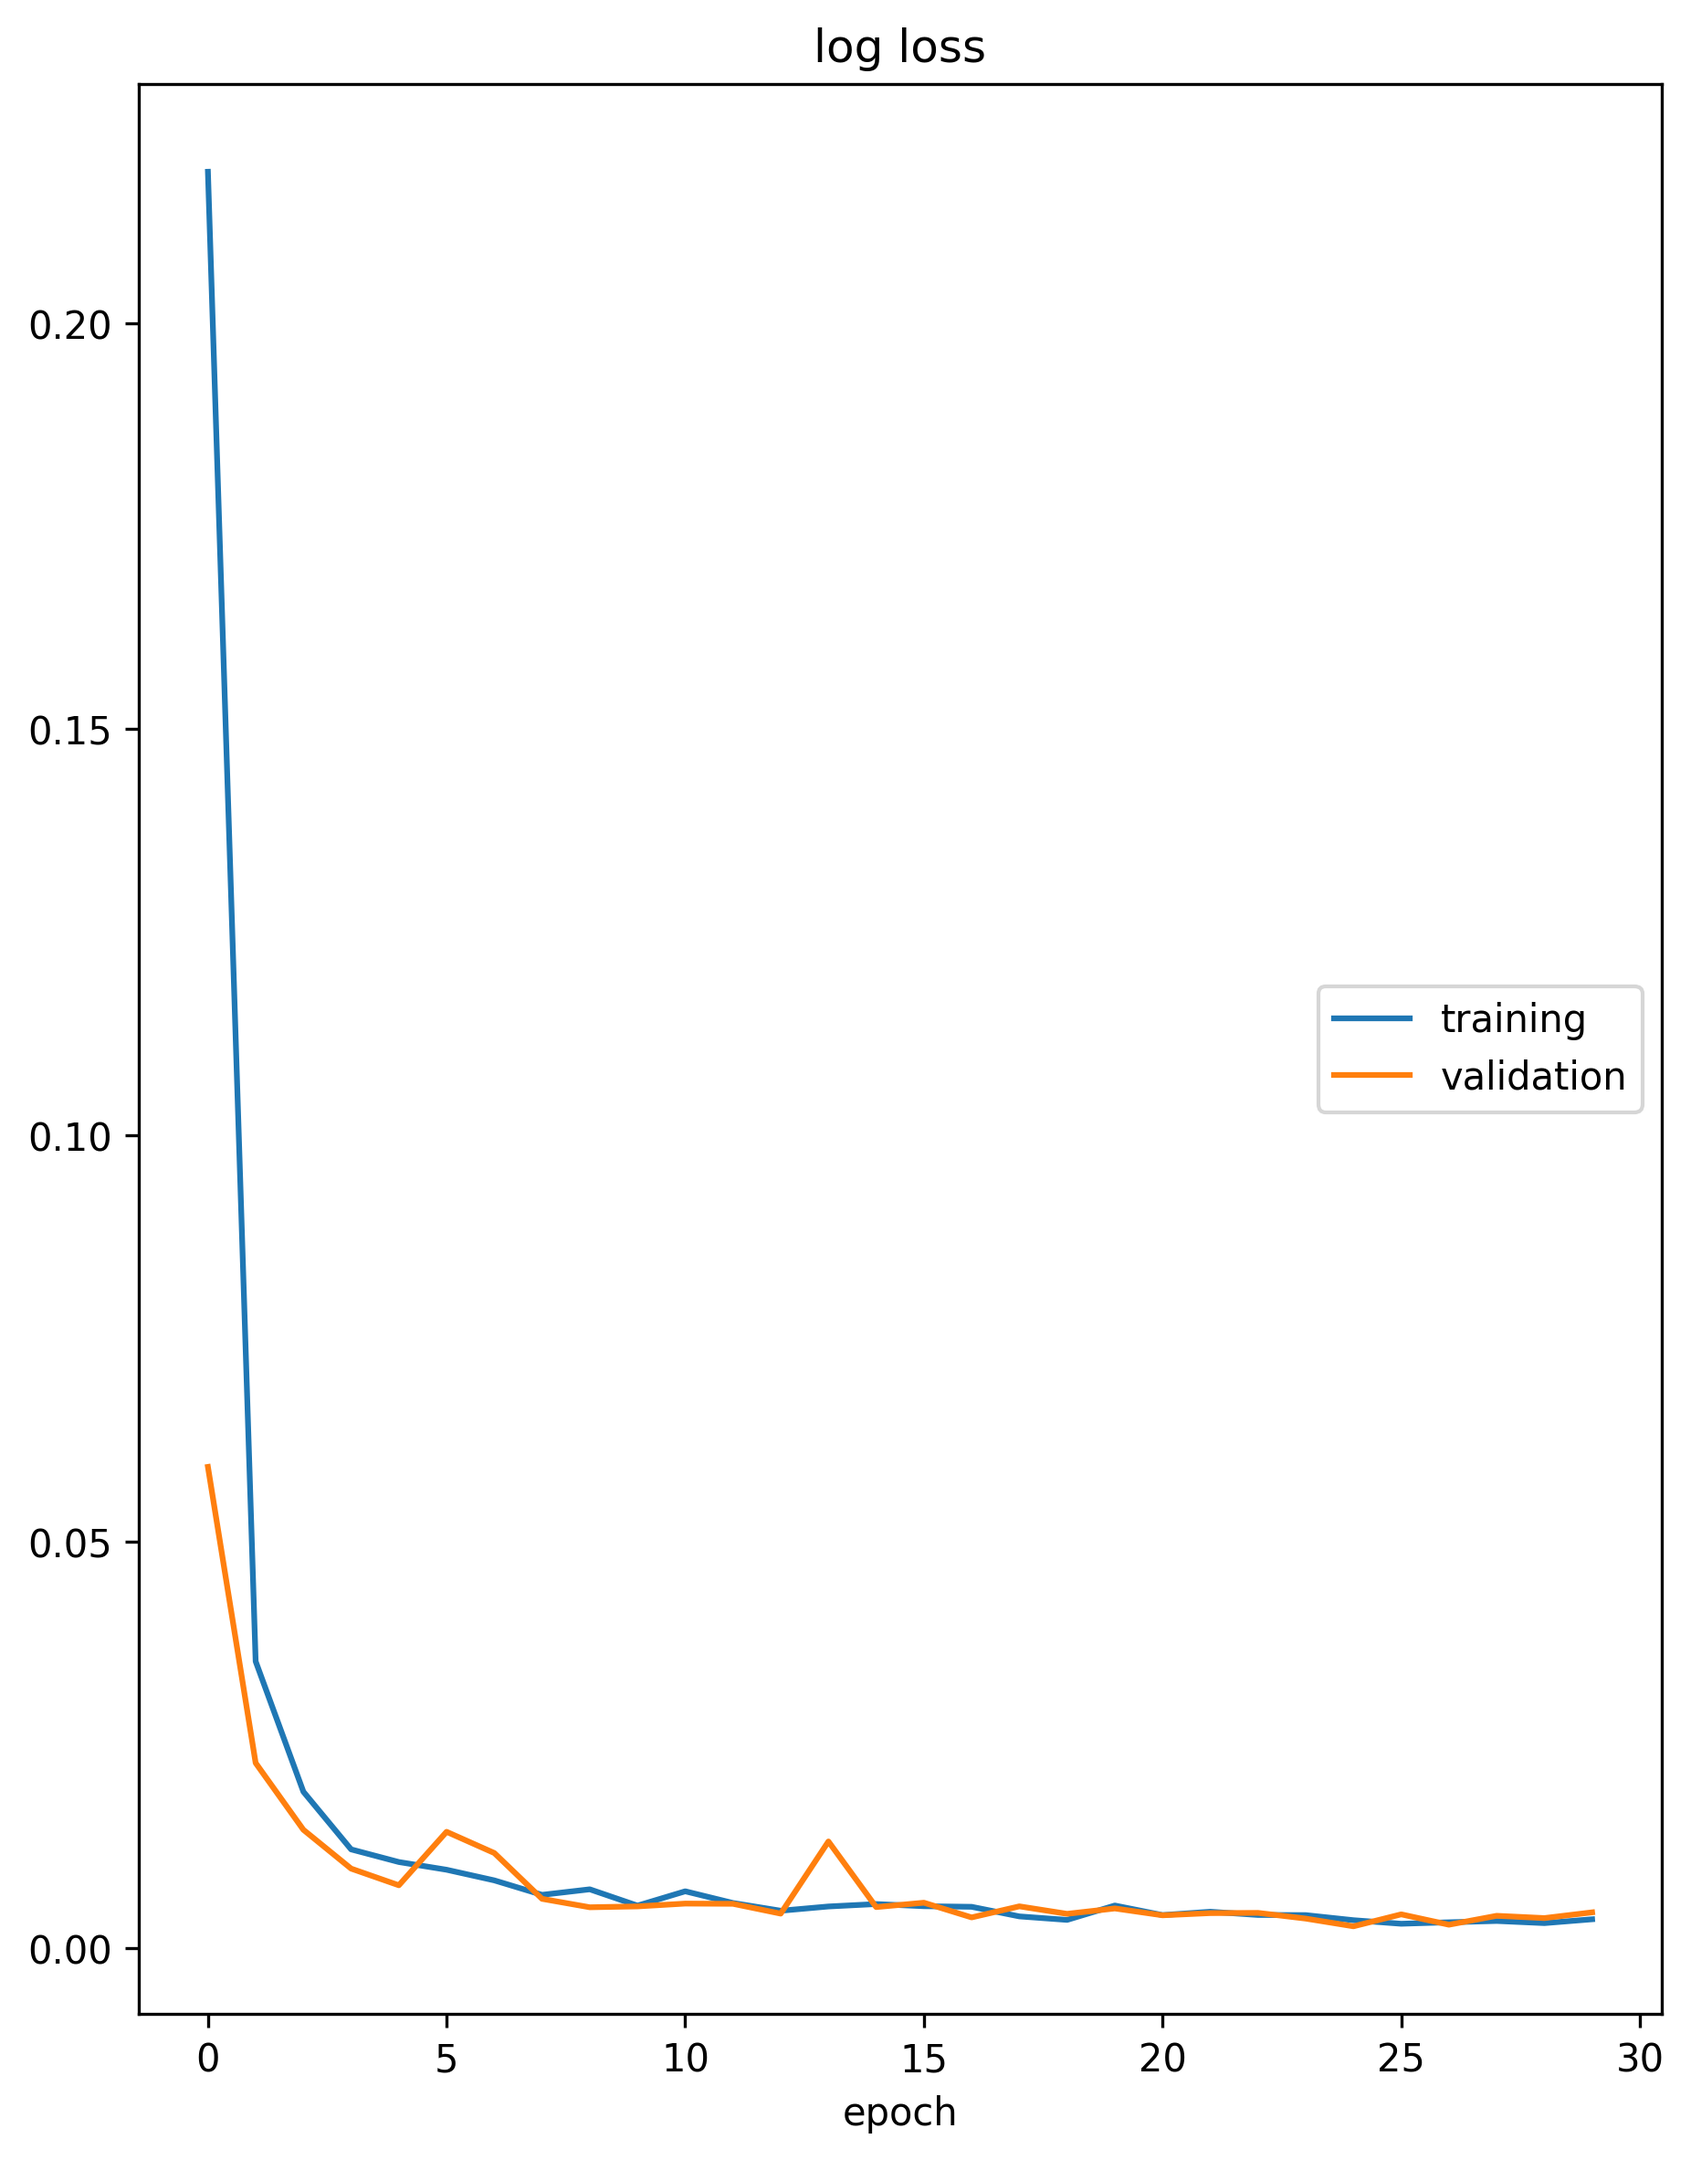
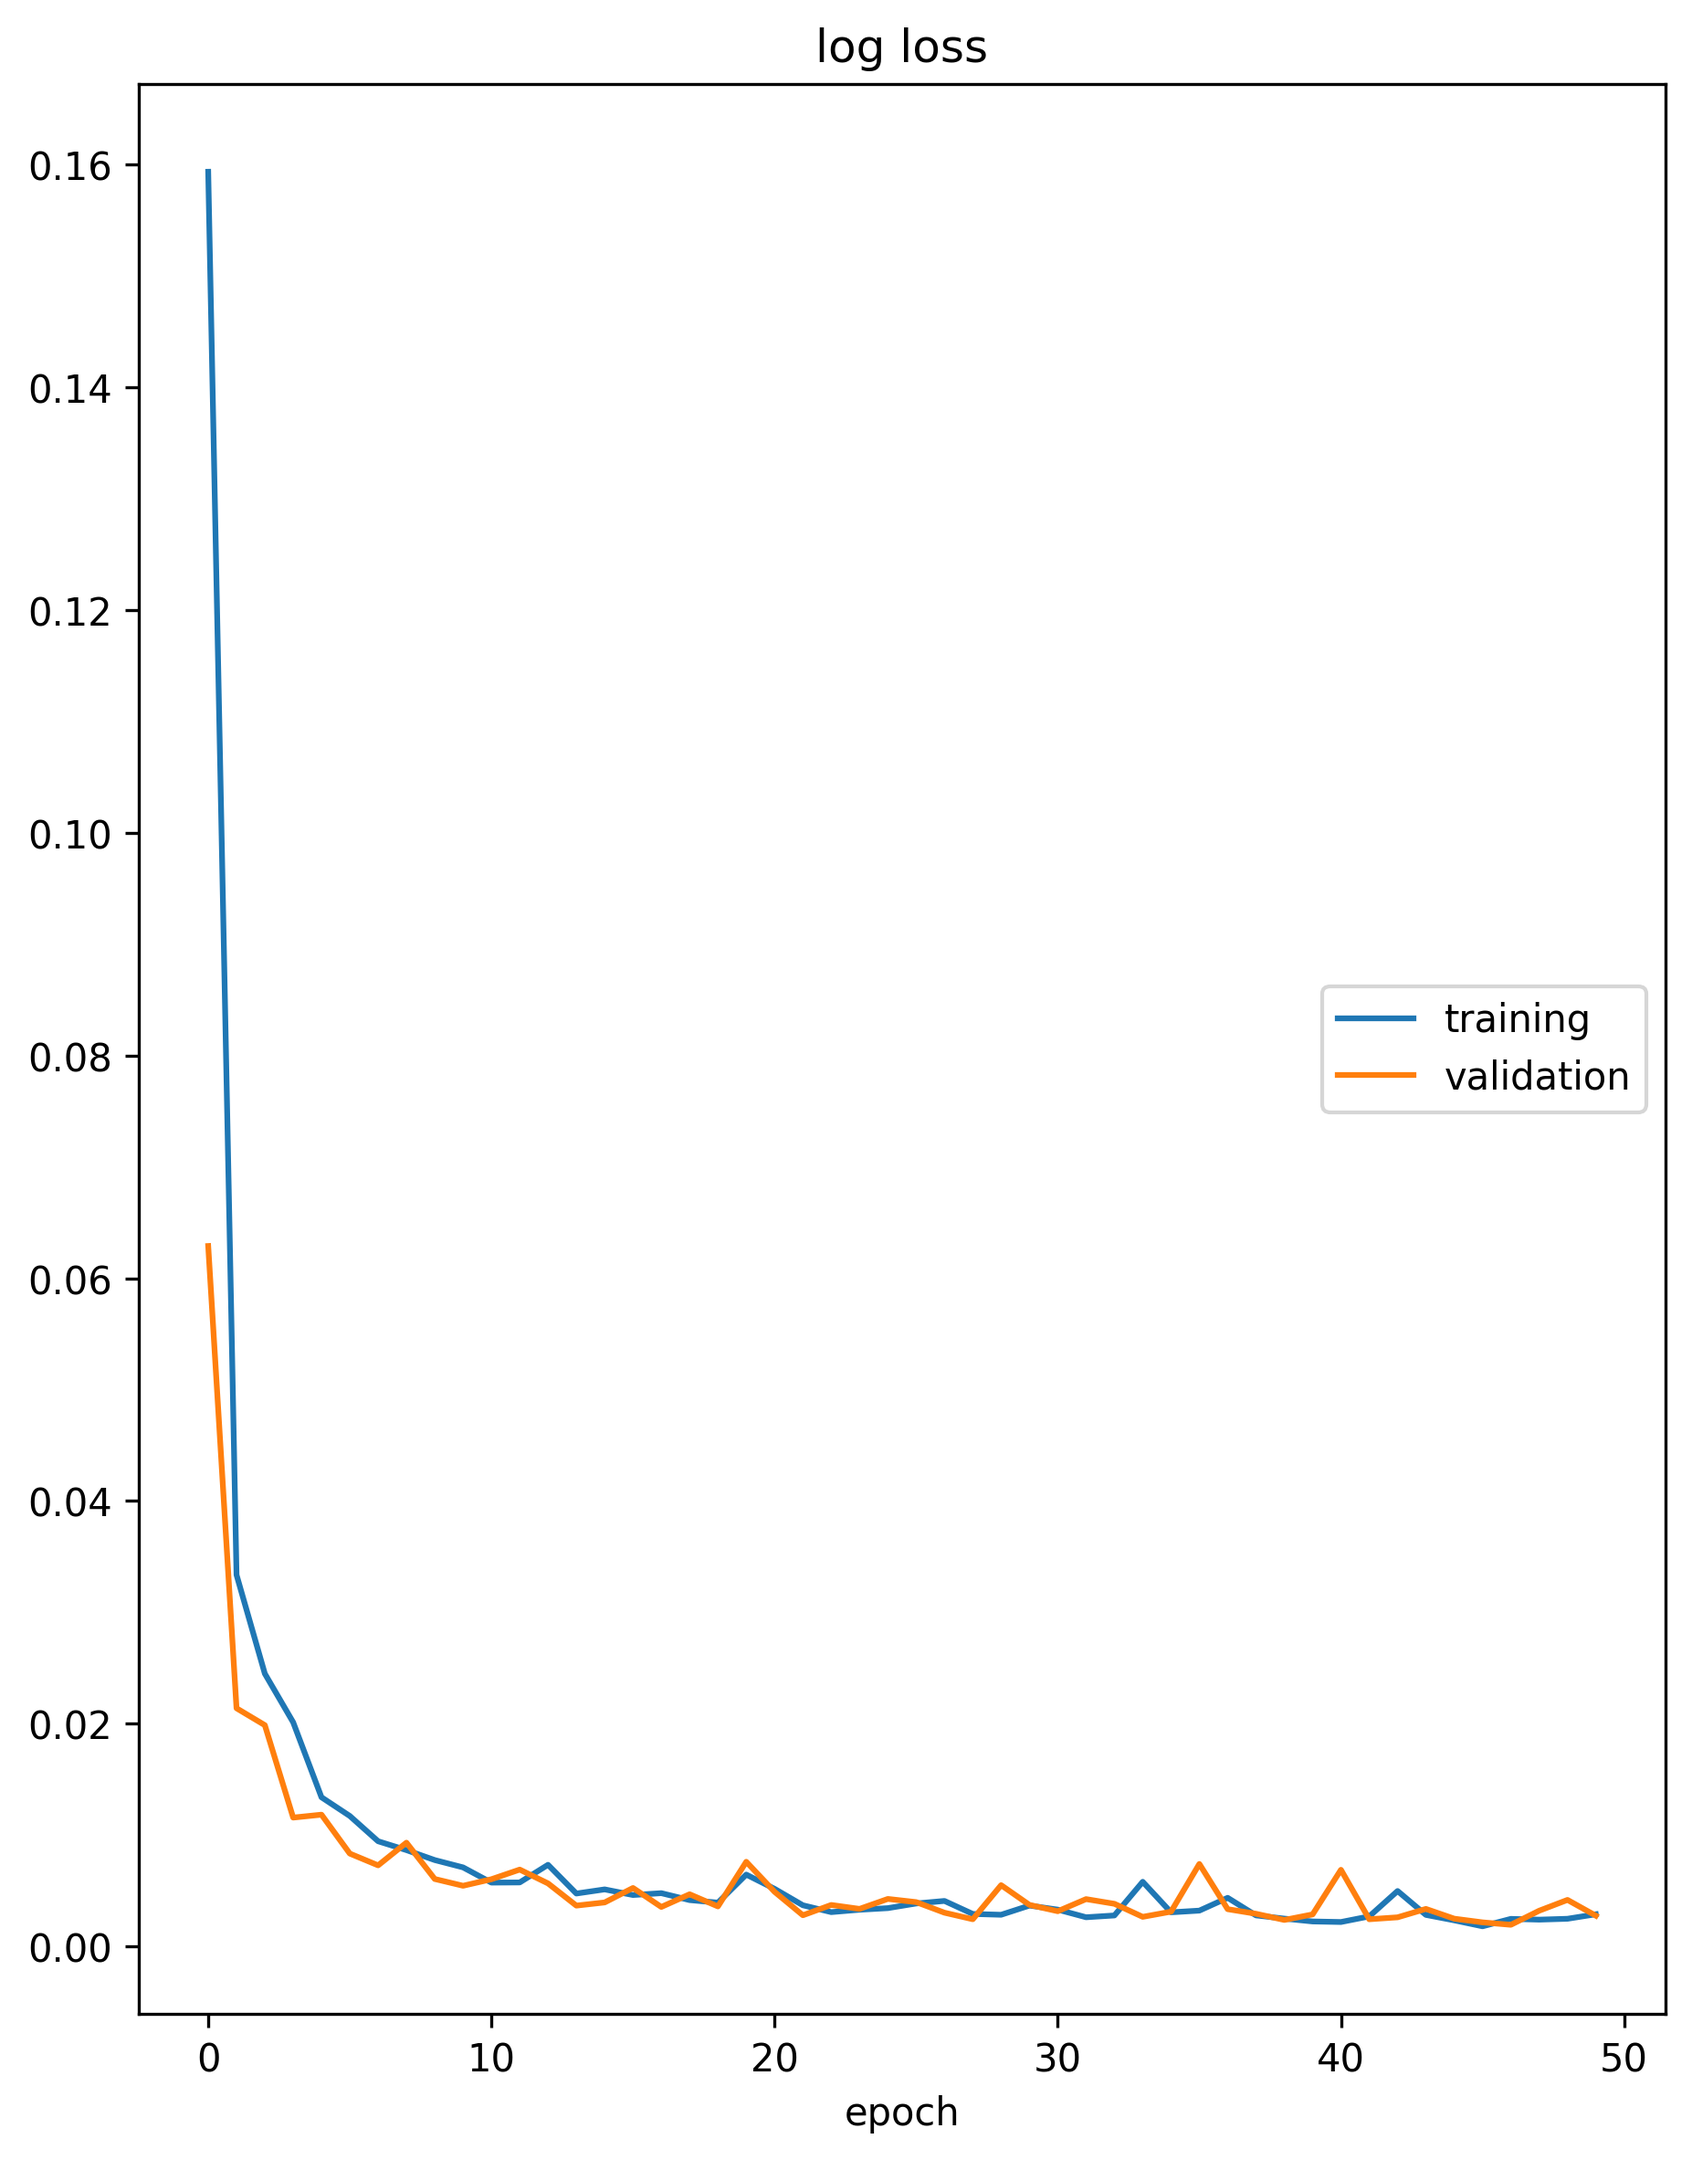
changes fistensor2 (swin v16, trans-v4, unet-v14)

diff --git a/deep-learning-dose-activity-dictionary/dad-nn.py b/deep-learning-dose-activity-dictionary/dad-nn.py
@@ -47,7 +47,6 @@ with open(os.path.join(dataset_dir, 'energy_beam_dict.json'), 'r') as file:
     energy_beam_dict = json.load(file)
 
 # Reshape of the images
-# img_size = (128, 64, 64)
 img_size = (160, 64, 64)
 
 # Loading the CT
@@ -66,16 +65,13 @@ cropped_CT = large_CT[large_CT.shape[0]//2 + TransX - HLX : large_CT.shape[0]//2
                       large_CT.shape[1]//2 + TransY - HLY : large_CT.shape[1]//2 + TransY + HLY,
                       large_CT.shape[2]//2 + TransZ - HLZ : large_CT.shape[2]//2 + TransZ + HLZ]
 
-final_shape = (160, 64, 64)  # reshaping to mm
-CT = zoom(cropped_CT, (final_shape[0] / cropped_CT.shape[0], final_shape[1] / cropped_CT.shape[1], final_shape[2] / cropped_CT.shape[2]))
+CT = zoom(cropped_CT, (img_size[0] / cropped_CT.shape[0], img_size[1] / cropped_CT.shape[1], img_size[2] / cropped_CT.shape[2]))
 
 # CT = np.flip(CT, axis=0)  # Flipping dim=0 because we have to? Not sure
-# CT = (CT - mean_CT) / std_CT  # Normalise
-CT_flag = False
+CT = (CT - mean_CT) / std_CT  # Normalise
+CT_flag = True
 if CT_flag: in_channels = 2
 else: in_channels = 1
-print(CT.shape)
-
 
 # Transformations
 input_transform = Compose([
@@ -98,7 +94,7 @@ num_samples = 948
 # Create dataset applying the transforms
 dataset = DoseActivityDataset(input_dir=input_dir, output_dir=output_dir,
                               input_transform=input_transform, output_transform=output_transform, joint_transform=joint_transform,
-                              num_samples=num_samples, energy_beam_dict=energy_beam_dict)
+                              CT_flag=CT_flag, CT=CT, num_samples=num_samples, energy_beam_dict=energy_beam_dict)
 
 # Split dataset into 80% training, 15% validation, 5% testing
 train_size = int(0.8 * len(dataset))
@@ -107,7 +103,7 @@ test_size = len(dataset) - train_size - val_size
 train_dataset, val_dataset, test_dataset = torch.utils.data.random_split(dataset, [train_size, val_size, test_size])
 
 # Create DataLoaders for training
-batch_size = 4
+batch_size = 1
 num_workers = 4
 train_loader = DataLoader(train_dataset, batch_size=batch_size, shuffle=True, num_workers=num_workers)
 val_loader = DataLoader(val_dataset, batch_size=batch_size, shuffle=False, num_workers=num_workers)
@@ -116,20 +112,19 @@ test_loader = DataLoader(test_dataset, batch_size=batch_size, shuffle=False, num
 from models.SwinUNETR import SwinUNETR
 # Create the model
 patches = False
-model = SwinUNETR(img_size=img_size, in_channels=in_channels, out_channels=1).to(device)
+model = SwinUNETR(in_channels=2, out_channels=1, img_size=img_size).to(device)
 
-model_dir = 'models/trained-models/SwinUNETR-v14.pth'
-timing_dir = 'models/training-times/training-time-SwinUNETR-v14.txt'
-losses_dir = 'models/losses/SwinUNETR-v14-loss.csv'
+model_dir = 'models/trained-models/SwinUNETR-v16.pth'
+timing_dir = 'models/training-times/training-time-SwinUNETR-v16.txt'
+losses_dir = 'models/losses/SwinUNETR-v16-loss.csv'
 n_epochs = 50
-save_plot_dir = "images/SwinUNETR-v14-loss.png"
-trained_model = train(model, train_loader, val_loader, epochs=n_epochs, mean_output=mean_output, std_output=std_output,
-                      model_dir=model_dir, timing_dir=timing_dir, save_plot_dir=save_plot_dir, losses_dir=losses_dir)
+save_plot_dir = "images/SwinUNETR-v16-loss.png"
+# trained_model = train(model, train_loader, val_loader, epochs=n_epochs, mean_output=mean_output, std_output=std_output,
+#                       model_dir=model_dir, timing_dir=timing_dir, save_plot_dir=save_plot_dir, losses_dir=losses_dir)
 
 # Loading the trained model
-model_dir = "models/trained-models/SwinUNETR-v14.pth"
+model_dir = "models/trained-models/SwinUNETR-v16.pth"
 trained_model = torch.load(model_dir, map_location=torch.device(device))
-
 
 ###
 # input_transform = Compose([
@@ -154,18 +149,18 @@ trained_model = torch.load(model_dir, map_location=torch.device(device))
 plot_loader = test_loader
 
 # Plotting slices of the dose
-save_plot_dir = "images/SwinUNETR-v14-sample.png"
+save_plot_dir = "images/SwinUNETR-v16-sample.png"
 plot_slices(trained_model, plot_loader, device, CT_flag=CT_flag, CT_manual=CT, 
             mean_input=mean_input, std_input=std_input, mean_output=mean_output, std_output=std_output,
             save_plot_dir=save_plot_dir, patches=patches) 
  
 # Plotting the dose-depth profiles
-save_plot_dir = "images/SwinUNETR-v14-ddp.png"
+save_plot_dir = "images/SwinUNETR-v16-ddp.png"
 plot_ddp(trained_model, plot_loader, device, mean_output=mean_output,
          std_output=std_output, save_plot_dir=save_plot_dir, patches=patches, patch_size=img_size[2]//2)
 
-results_dir = 'models/test-results/SwinUNETR-v14-results.txt'
-save_plot_dir = 'images/SwinUNETR-v14-range-hist.png'
+results_dir = 'models/test-results/SwinUNETR-v16-results.txt'
+save_plot_dir = 'images/SwinUNETR-v16-range-hist.png'
 test(trained_model, test_loader, device, results_dir=results_dir, mean_output=mean_output, std_output=std_output, save_plot_dir=save_plot_dir)
 
 # dose2act_model_dir = "models/trained-models/reverse-SwinUNETR-v1.pth"

diff --git a/deep-learning-dose-activity-dictionary/utils.py b/deep-learning-dose-activity-dictionary/utils.py
@@ -30,7 +30,7 @@ class DoseActivityDataset(Dataset):
     Create the dataset where the activity is the input and the dose is the output.
     The relevant transforms are applied.
     """
-    def __init__(self, input_dir, output_dir, num_samples=5, input_transform=None, output_transform=None, joint_transform=None, CT=None, energy_beam_dict=None):
+    def __init__(self, input_dir, output_dir, num_samples=5, input_transform=None, output_transform=None, joint_transform=None, CT_flag=False, CT=None, energy_beam_dict=None):
         self.input_dir = input_dir
         self.output_dir = output_dir
         self.input_transform = input_transform
@@ -38,6 +38,7 @@ class DoseActivityDataset(Dataset):
         self.joint_transform = joint_transform
         self.energy_beam_dict = energy_beam_dict
         self.file_names = os.listdir(input_dir)[:num_samples]
+        self.CT_flag = CT_flag
         self.CT = CT
 
     def __len__(self):
@@ -59,7 +60,7 @@ class DoseActivityDataset(Dataset):
             output_volume = self.output_transform(output_volume)
         if self.joint_transform:
             input_volume, output_volume = self.joint_transform(input_volume, output_volume)
-        if self.CT is not None:
+        if self.CT_flag:
             input_volume = torch.cat((input_volume, torch.tensor(self.CT, dtype=torch.float32).unsqueeze(0)))
         if self.energy_beam_dict is not None:
             beam_number = self.file_names[idx][0:4]
